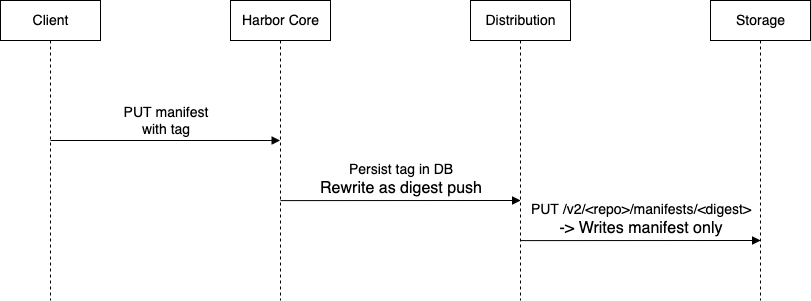
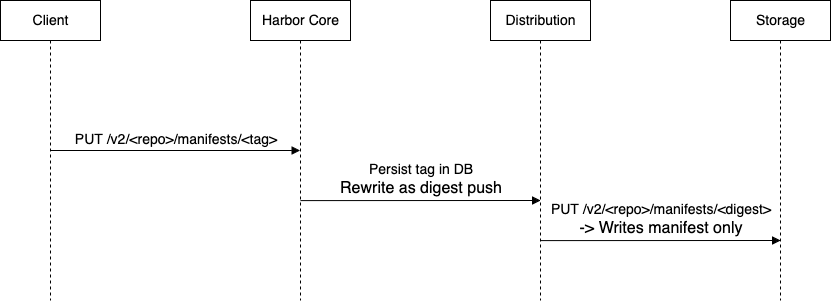
resolve comments

diff --git a/proposals/new/gc_perf_enhancement.md b/proposals/new/gc_perf_enhancement.md
@@ -40,7 +40,7 @@ Push with Tag (current behavior):
 Modify Harbor's proxy logic to avoid writing tag link files to the backend. When a manifest with a tag is pushed:
 
 1. Harbor Core will extract the tag and persist it in its own database. 
-2. The proxy request to the backend registry is rewritten to use the manifest's digest instead of the tag (PUT /v2/<repo>/manifests/<digest>).
+2. The proxy request to the backend registry is rewritten to use the manifest's digest instead of the tag (PUT /v2/[repo]/manifests/[digest]).
 
 Push with Digest (Proposed Behavior):
 
@@ -58,8 +58,6 @@ This proposal introduces a checkbox in the garbage collection configuration to c
 
 1. Checked – Garbage collection will follow the current behavior and delete tag files.
 2. Unchecked – Garbage collection will skip tag file deletion, improving performance.
-
-This option is intended as a temporary measure and will be removed in a future release. By then, most artifacts in Harbor will be tagless, eliminating the need for explicit user configuration.
 
 ## Non Goals
 
@@ -129,3 +127,4 @@ For existing tag files, if the tag deletion option is disabled, any tags already
 1. Code impletation bases on the proposed mentioned above.
 2. Add a cleanup tool to remove orphaned tag link files (optional).
 3. Benchmark GC performance in a real S3 environment before and after the change.
+4. This tag deletion is intended as a temporary measure and can be removed in a future release. By then, most artifacts in Harbor will be tagless, eliminating the need for explicit user configuration.
